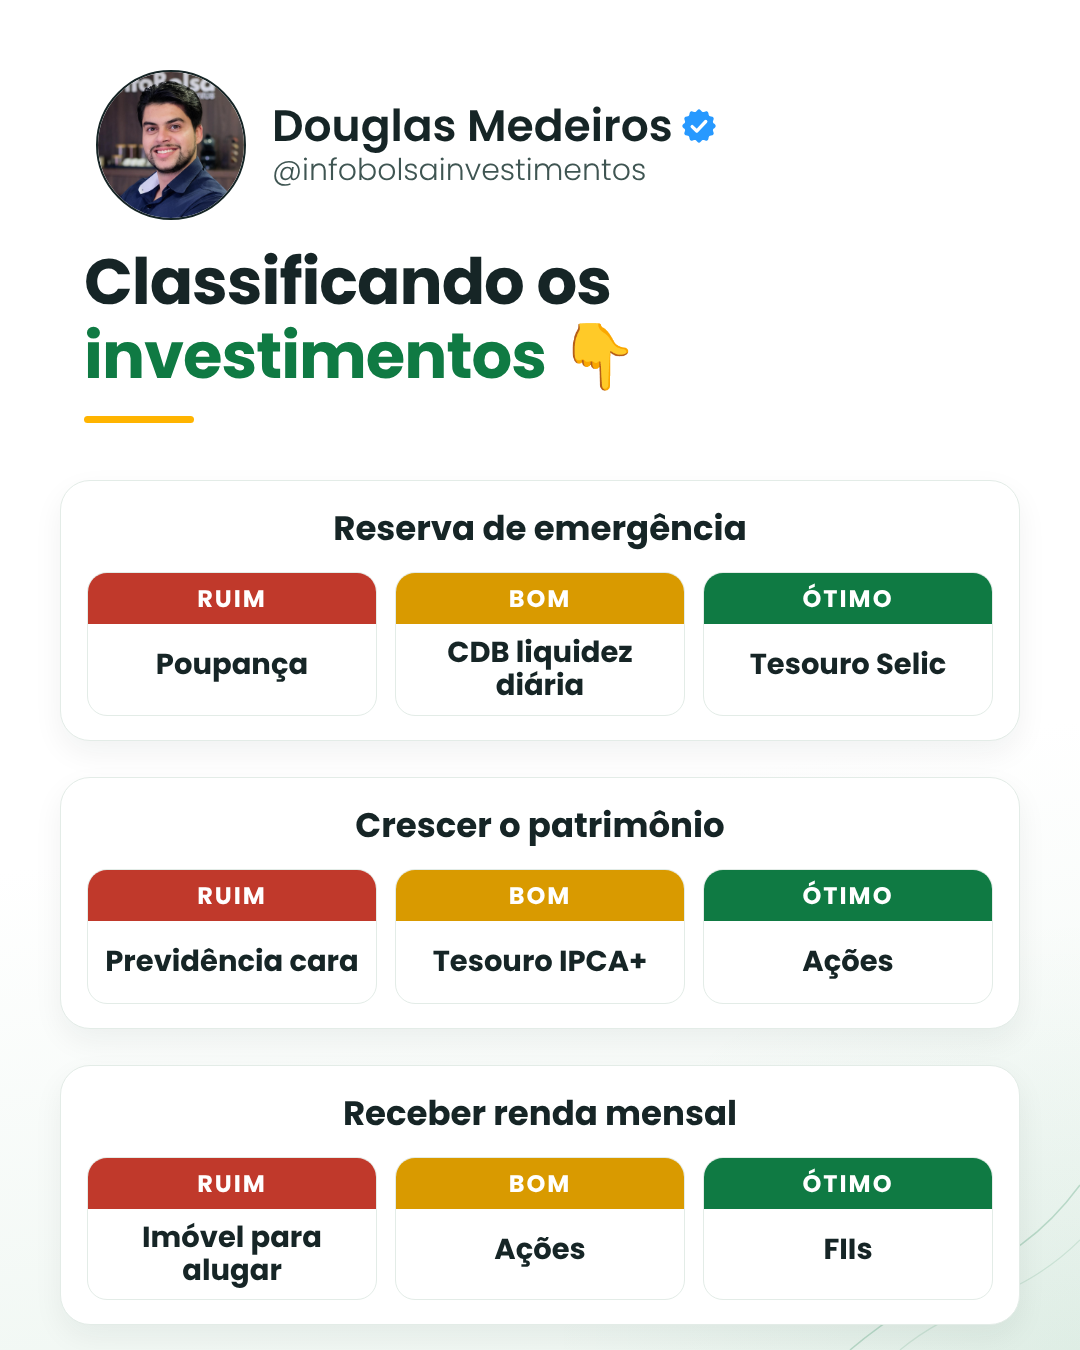
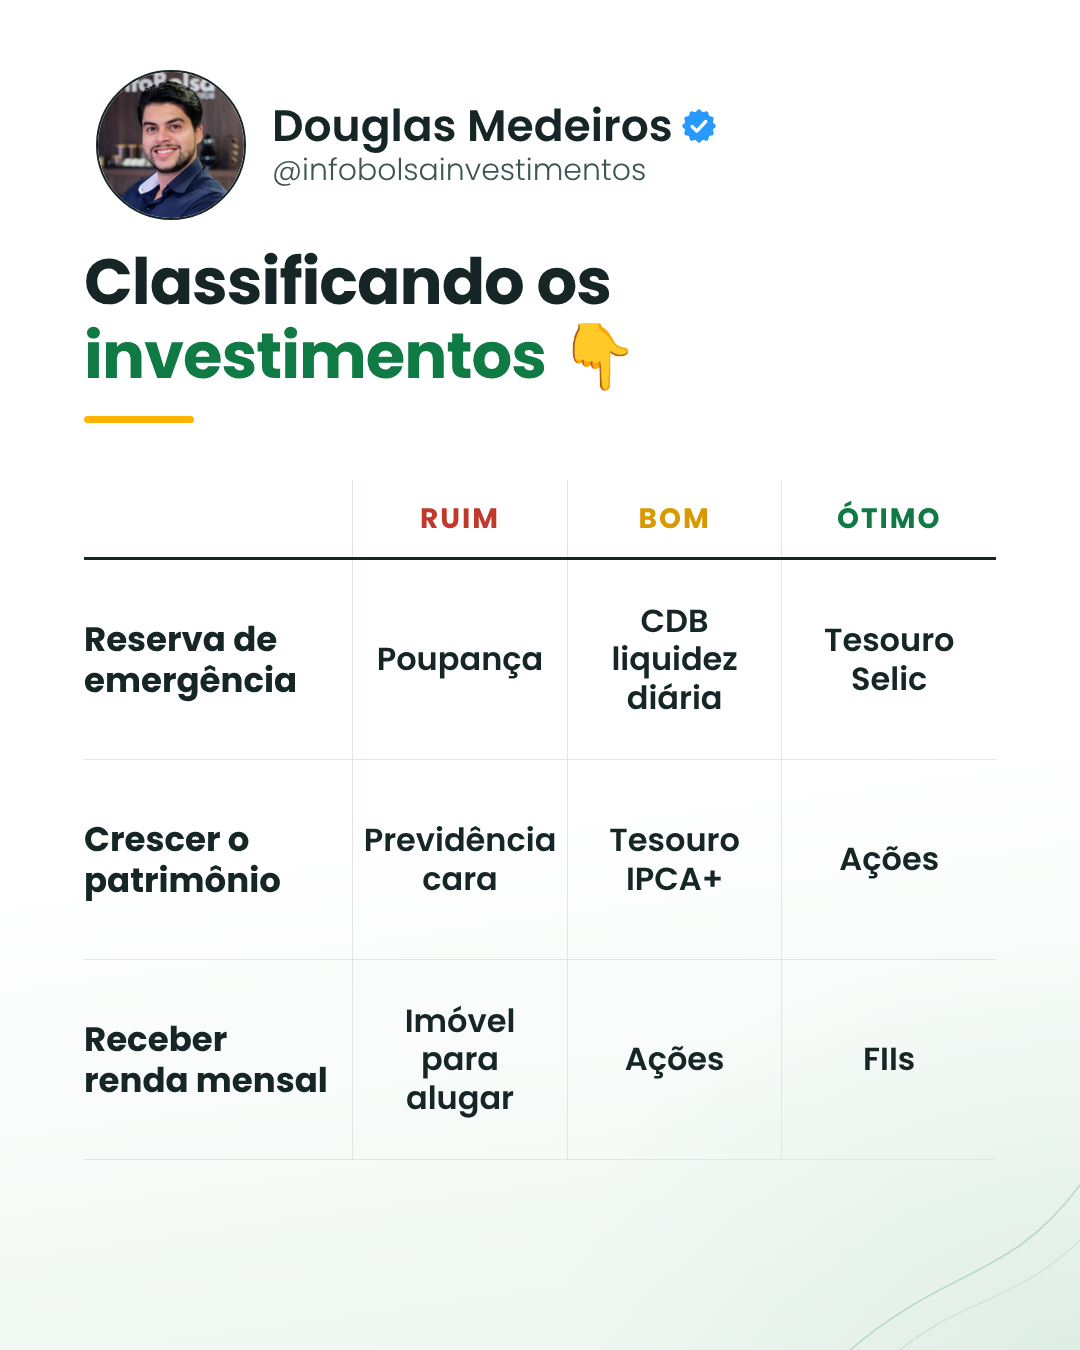
4 posts 25/11: linhas finas e layout de lista
Claude-Session: https://claude.ai/code/session_01V4Ut9U2W4uPbxLAyJQKmJH

diff --git a/kit/gen_qua.py b/kit/gen_qua.py
@@ -27,44 +27,38 @@ def br(v, d=2):
     return f"{v:,.{d}f}".replace(",", "X").replace(".", ",").replace("X", ".")
 
 
-# 1. Galpões com mais cotistas (pódio)
+# 1. Galpões com mais cotistas (lista com linhas finas)
 G = [("HGLG11", "Pátria Log", 608345), ("BTLG11", "BTG Logística", 505908), ("GGRC11", "GGR Covepi", 411230),
      ("XPLG11", "XP Log", 347304), ("VILG11", "Vinci Logística", 149265)]
 CSS1 = """
-.pd{position:absolute;left:70px;right:70px;top:490px;display:grid;grid-template-columns:1fr 1fr;gap:40px;grid-auto-rows:220px}
-.pc{background:#fff;border:1.5px solid #e3ece7;border-radius:30px;box-shadow:0 12px 30px rgba(22,37,38,.06);display:flex;align-items:center;gap:24px;padding:24px 28px;position:relative}
-.pc.um{grid-column:1/3;justify-content:center;padding:30px}
-.pc{padding:24px 24px 24px 30px;gap:22px}.pc.um{gap:30px}
-.pc img{width:84px;height:84px;border-radius:24px;object-fit:contain}
-.pc.um img{width:140px;height:140px}
-.pc .tk{font-weight:700;font-size:40px;color:#162526;line-height:1}
-.pc.um .tk{font-size:58px}
-.pc .nm2{font-size:24px;color:#7b8f8a;margin-top:6px}
-.pc .q{font-weight:700;font-size:34px;color:#0f7a43;margin-top:12px}
-.pc.um .q{font-size:46px}
-.pc .q small{font-size:24px;font-weight:500;color:#3f5552}
-.md{position:absolute;left:-12px;top:-12px;width:54px;height:54px;border-radius:50%;display:flex;align-items:center;justify-content:center;font-weight:700;font-size:26px;color:#fff;box-shadow:0 6px 14px rgba(0,0,0,.15)}
+.lk{position:absolute;left:84px;right:84px;top:480px;border-top:1.5px solid #dfe6e3}
+.lr{display:flex;align-items:center;gap:28px;height:162px;border-bottom:1.5px solid #dfe6e3}
+.lr .ps{width:56px;font-weight:700;font-size:40px;color:#0f7a43}
+.lr:first-child .ps{color:#d99a00}
+.lr img{width:92px;height:92px;border-radius:20px;object-fit:contain;flex:none}
+.lr .tk{flex:1;font-weight:700;font-size:46px;color:#162526;line-height:1.1;display:flex;flex-direction:column;align-items:flex-start}
+.lr .tk small{display:block;font-size:24px;font-weight:400;color:#7b8f8a;margin-top:6px}
+.lr .q{text-align:right;font-weight:700;font-size:46px;color:#162526;line-height:1}
+.lr .q small{display:block;font-size:22px;font-weight:500;color:#7b8f8a;margin-top:6px}
 """
-cores = ["#FFB400", "#9aa5a8", "#c07a3c", "#0f7a43", "#0f7a43"]
 cards = ""
 for i, (t, n, q) in enumerate(G):
-    cards += (f'<div class="pc{" um" if i == 0 else ""}"><div class="md" style="background:{cores[i]}">{i + 1}º</div>'
-              f'<img src="assets/logos_b3/{t}.png"><div><div class="tk">{t}</div><div class="nm2">{n}</div>'
-              f'<div class="q num">{br(q / 1000, 0)} mil <small>cotistas</small></div></div></div>')
+    cards += (f'<div class="lr"><div class="ps">{i + 1}º</div><img src="assets/logos_b3/{t}.png">'
+              f'<div class="tk">{t}<small>{n}</small></div><div class="q num">{br(q / 1000, 0)} mil<small>cotistas</small></div></div>')
 open("q1.html", "w").write(pag('<div class="t">🚨 Os 5 FIIs de galpões com <span class="g">mais cotistas</span> 👇</div>'
-                               f'<div class="pd">{cards}</div>', 58, CSS1))
+                               f'<div class="lk">{cards}</div>', 58, CSS1))
 
 # 2. Focus
 F = [("IPCA", ["5,15%", "5,12%", "4,00%", "4,00%"]), ("PIB", ["1,70%", "1,00%", "1,71%", "2,00%"]),
      ("Dólar", ["R$ 5,55", "R$ 5,50", "R$ 5,50", "R$ 5,55"]), ("Selic", ["13,75%", "13,00%", "11,00%", "10,50%"])]
 CSS2 = """
 .fs{position:absolute;left:84px;right:84px;top:445px;font-size:32px;color:#3f5552}
-.fo{position:absolute;left:60px;right:60px;top:540px;background:#fff;border:1.5px solid #e3ece7;border-radius:30px;overflow:hidden;box-shadow:0 12px 30px rgba(22,37,38,.06)}
-.fo .r{display:grid;grid-template-columns:1.15fr 1fr 1fr 1fr 1fr;align-items:center;height:150px;border-top:1.5px solid #e3ece7;text-align:center}
-.fo .r:first-child{height:90px;border-top:none;background:#162526;color:#FFB400;font-weight:700;font-size:28px;letter-spacing:1px}
-.fo .r:first-child div:first-child{color:#fff}
-.fo .r:nth-child(odd):not(:first-child){background:#f6faf7}
-.fo .r div:first-child{text-align:left;padding-left:32px;font-weight:700;font-size:40px;color:#162526}
+.fo{position:absolute;left:84px;right:84px;top:540px}
+.fo .r{display:grid;grid-template-columns:1.1fr 1fr 1fr 1fr 1fr;align-items:center;height:166px;border-bottom:1.5px solid #dfe6e3;text-align:center}
+.fo .r div+div{border-left:1.5px solid #dfe6e3;height:100%;display:flex;align-items:center;justify-content:center}
+.fo .r:first-child{height:80px;border-bottom:3px solid #0f7a43;color:#0f7a43;font-weight:700;font-size:30px;letter-spacing:1px}
+.fo .r:first-child div:first-child{color:#7b8f8a;font-size:24px}
+.fo .r div:first-child{text-align:left;font-weight:700;font-size:40px;color:#162526}
 .fo .v{font-weight:700;font-size:40px;color:#162526}
 .fo .v small{font-size:22px;color:#7b8f8a;font-weight:500;margin-right:4px}
 """
@@ -81,22 +75,19 @@ C = [("Reserva de emergência", ["Poupança", "CDB liquidez diária", "Tesouro S
      ("Crescer o patrimônio", ["Previdência cara", "Tesouro IPCA+", "Ações"]),
      ("Receber renda mensal", ["Imóvel para alugar", "Ações", "FIIs"])]
 CSS3 = """
-.cl{position:absolute;left:60px;right:60px;top:480px;display:flex;flex-direction:column;gap:36px}
-.bl{background:#fff;border:1.5px solid #e3ece7;border-radius:30px;padding:22px 26px 24px;box-shadow:0 12px 30px rgba(22,37,38,.06)}
-.bl h3{margin:0 0 18px;font-weight:700;font-size:34px;color:#162526;text-align:center}
-.bl .g3{display:grid;grid-template-columns:1fr 1fr 1fr;gap:18px}
-.cbx{border-radius:20px;overflow:hidden;border:1.5px solid #e3ece7;text-align:center}
-.cbx .cbl{font-weight:700;font-size:24px;letter-spacing:2px;color:#fff;padding:8px 0}
-.cbx .cbn{font-weight:700;font-size:29px;color:#162526;padding:12px 10px;min-height:82px;display:flex;align-items:center;justify-content:center;line-height:1.15}
+.ct{position:absolute;left:84px;right:84px;top:480px}
+.ct .r{display:grid;grid-template-columns:1.25fr 1fr 1fr 1fr;align-items:center;min-height:200px;border-bottom:1.5px solid #dfe6e3;text-align:center}
+.ct .r div+div{border-left:1.5px solid #dfe6e3;align-self:stretch;display:flex;align-items:center;justify-content:center;padding:0 10px}
+.ct .r:first-child{min-height:80px;border-bottom:3px solid #162526;font-weight:700;font-size:28px;letter-spacing:2px}
+.ct .r div:first-child{text-align:left;font-weight:700;font-size:34px;color:#162526;line-height:1.2;padding-right:14px}
+.ct .x{font-weight:600;font-size:32px;color:#162526;line-height:1.2}
 """
 lbs = [("RUIM", "#c0392b"), ("BOM", "#d99a00"), ("ÓTIMO", "#0f7a43")]
-bl = ""
+bl = '<div class="r"><div></div>' + "".join(f'<div style="color:{c}">{l}</div>' for l, c in lbs) + "</div>"
 for t, its in C:
-    bl += f'<div class="bl"><h3>{t}</h3><div class="g3">' + "".join(
-        f'<div class="cbx"><div class="cbl" style="background:{c}">{l}</div><div class="cbn">{x}</div></div>'
-        for (l, c), x in zip(lbs, its)) + "</div></div>"
+    bl += f'<div class="r"><div>{t}</div>' + "".join(f'<div class="x">{x}</div>' for x in its) + "</div>"
 open("q3.html", "w").write(pag('<div class="t">Classificando os <span class="g">investimentos</span> 👇</div>'
-                               f'<div class="cl">{bl}</div>', 64, CSS3))
+                               f'<div class="ct">{bl}</div>', 64, CSS3))
 
 # 4. Salário mínimo com FIIs
 SAL = 1621
@@ -108,15 +99,15 @@ for t, r, p in S:
     L.append((t, r, p, q * p))
 L.sort(key=lambda x: x[3])
 CSS4 = """
-.sm{position:absolute;left:60px;right:60px;top:510px;background:#fff;border:1.5px solid #e3ece7;border-radius:30px;overflow:hidden;box-shadow:0 12px 30px rgba(22,37,38,.06)}
-.sm .r{display:grid;grid-template-columns:1fr .9fr .9fr 1.5fr;align-items:center;height:76px;border-top:1.5px solid #e3ece7;text-align:center;font-size:30px;color:#3f5552}
-.sm .r:first-child{height:70px;border-top:none;background:#162526;color:#fff;font-weight:700;font-size:24px}
-.sm .r:first-child div:last-child{color:#FFB400}
-.sm .r:nth-child(odd):not(:first-child){background:#f6faf7}
+.sm{position:absolute;left:84px;right:84px;top:510px}
+.sm .r{display:grid;grid-template-columns:1fr .9fr .9fr 1.5fr;align-items:center;height:76px;border-top:1.5px solid #dfe6e3;text-align:center;font-size:30px;color:#3f5552}
+.sm .r:first-child{height:70px;border-top:none;border-bottom:3px solid #0f7a43;color:#7b8f8a;font-weight:700;font-size:24px}
+.sm .r div+div{border-left:1.5px solid #dfe6e3;height:100%;display:flex;align-items:center;justify-content:center}
+.sm .r:first-child div:last-child{color:#0f7a43}
 .sm .r div:first-child{font-weight:700;color:#162526;font-size:32px}
-.sm .r:first-child div:first-child{color:#fff;font-size:24px}
+.sm .r:first-child div:first-child{color:#7b8f8a;font-size:24px}
 .sm .r div:last-child{font-weight:700;color:#0f7a43}
-.sm .r:first-child div:last-child{color:#FFB400}
+.sm .r:first-child div:last-child{color:#0f7a43}
 """
 rows = '<div class="r"><div>FII</div><div>Últ. rend.</div><div>Preço</div><div>Investimento necessário</div></div>'
 for t, r, p, v in L:
